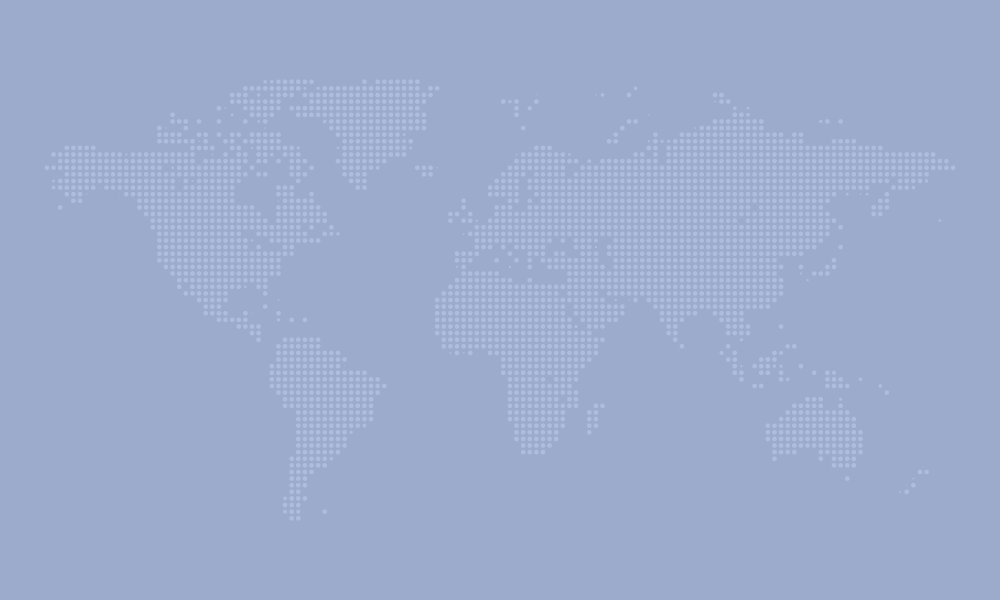
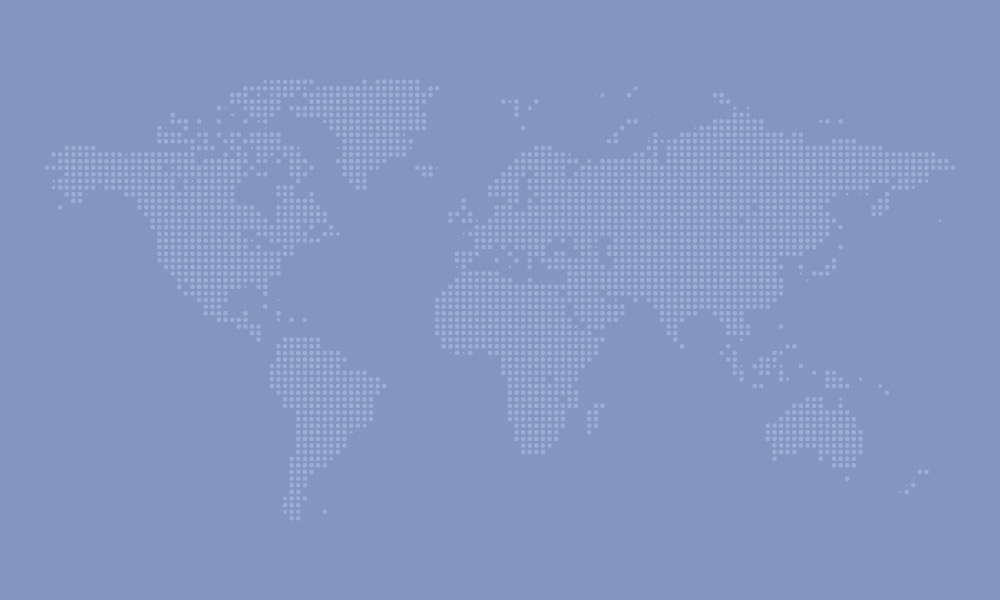
update
Update

diff --git a/css/index.css b/css/index.css
@@ -1,8 +1,2 @@
-.version.index{color:#0000E4;background-color:#0258FA;}#page{z-index:1;width:900px;min-height:499.95000000000005px;background-image:none;border-width:0px;border-color:#000000;background-color:transparent;padding-bottom:0px;margin-left:auto;margin-right:auto;}#page_position_content{padding-bottom:62px;width:0.01px;}#pu1301{z-index:36;width:0.01px;padding-bottom:48px;margin-left:-100px;margin-top:1px;}#u1301{z-index:36;height:48px;box-shadow:4px 4px 5px rgba(0,0,0,0.05);background-color:#A96AC4;position:fixed;top:1px;}#u1301-bw{z-index:36;}#u874{z-index:37;width:252px;border-width:0px;border-color:transparent;background-color:transparent;padding-bottom:32px;position:fixed;top:9px;left:50%;margin-left:-450px;}#u214{z-index:42;vertical-align:top;width:53px;height:32px;position:fixed;top:9px;left:50%;margin-left:-450px;background:url("../images/invisible_48px-u214.png?crc=331156213") no-repeat 0px 0px;}#u184-4{z-index:38;width:193px;min-height:16px;text-shadow:0px 0px 16px rgba(0,0,0,0.05),0px 0px 16px rgba(0,0,0,0.05)/* glow */,
-6px 6px 8px rgba(0,0,0,0)/* drop shadow*/;box-shadow:none;background-color:transparent;line-height:29px;font-size:24px;color:#FFFFFF;font-family:open-sans, sans-serif;font-weight:700;position:fixed;top:9px;left:50%;margin-left:-391px;}#home{left:-100px;top:-49px;margin-bottom:-18px;position:relative;}#u441{z-index:2;min-height:553px;opacity:1;-ms-filter:"progid:DXImageTransform.Microsoft.Alpha(Opacity=100)";filter:alpha(opacity=100);padding-bottom:82px;background:#D8BBE4 url("../images/dotted-world-map-vector-2-u441-fr.png?crc=335031650") no-repeat center center;background-color:rgba(169,106,196,0.45);background-size:cover;}#u441_align_to_page{margin-left:auto;margin-right:auto;position:relative;width:900px;left:-100px;}#project{position:relative;margin-right:-10000px;width:22px;margin-top:535px;left:-1px;}#u1328{z-index:5;width:490px;height:277px;box-shadow:0px 0px 8px rgba(0,0,0,0.2),0px 0px 8px rgba(0,0,0,0.2);opacity:1;-ms-filter:"progid:DXImageTransform.Microsoft.Alpha(Opacity=100)";filter:alpha(opacity=100);position:relative;margin-right:-10000px;margin-top:79px;left:100px;background:transparent url("../images/screenshot_2.jpg?crc=3911182985") no-repeat center center;}#pu1523{z-index:6;width:0.01px;padding-bottom:0px;margin-right:-10000px;margin-top:92px;margin-left:626px;}#u1523{z-index:6;width:372px;border-width:0px;border-color:transparent;background-color:transparent;margin-left:2px;position:relative;}#u1347-4{z-index:7;width:372px;min-height:16px;text-shadow:0px 0px 16px rgba(0,0,0,0.05),0px 0px 16px rgba(0,0,0,0.05)/* glow */,
-6px 6px 8px rgba(0,0,0,0)/* drop shadow*/;box-shadow:none;background-color:transparent;line-height:29px;text-align:left;font-size:24px;color:#FFFFFF;font-family:open-sans, sans-serif;font-weight:400;position:relative;}#pu1384{z-index:27;width:0.01px;margin-top:13px;}#u1384{z-index:27;width:20px;height:20px;opacity:1;-ms-filter:"progid:DXImageTransform.Microsoft.Alpha(Opacity=100)";filter:alpha(opacity=100);position:relative;margin-right:-10000px;background:transparent url("../images/security%20checked_32px.png?crc=3961449989") no-repeat center center;background-size:cover;}#u1360-4{z-index:11;width:332px;min-height:16px;text-shadow:0px 0px 16px rgba(0,0,0,0.05),0px 0px 16px rgba(0,0,0,0.05)/* glow */,
-6px 6px 8px rgba(0,0,0,0)/* drop shadow*/;box-shadow:none;background-color:transparent;text-align:left;color:#FFFFFF;font-family:open-sans, sans-serif;font-weight:400;position:relative;margin-right:-10000px;margin-top:1px;left:30px;}#pu1419{z-index:28;width:0.01px;margin-top:13px;}#u1419{z-index:28;width:20px;height:20px;opacity:1;-ms-filter:"progid:DXImageTransform.Microsoft.Alpha(Opacity=100)";filter:alpha(opacity=100);position:relative;margin-right:-10000px;background:transparent url("../images/fraud_32px.png?crc=88948563") no-repeat center center;background-size:cover;}#u1363-4{z-index:15;width:328px;min-height:16px;text-shadow:0px 0px 16px rgba(0,0,0,0.05),0px 0px 16px rgba(0,0,0,0.05)/* glow */,
-6px 6px 8px rgba(0,0,0,0)/* drop shadow*/;box-shadow:none;background-color:transparent;text-align:left;color:#FFFFFF;font-family:open-sans, sans-serif;font-weight:400;position:relative;margin-right:-10000px;margin-top:2px;left:30px;}#pu1430{z-index:29;width:0.01px;margin-top:13px;}#u1430{z-index:29;width:20px;height:20px;opacity:1;-ms-filter:"progid:DXImageTransform.Microsoft.Alpha(Opacity=100)";filter:alpha(opacity=100);position:relative;margin-right:-10000px;background:transparent url("../images/unlock_32px_2.png?crc=4148661328") no-repeat center center;background-size:cover;}#u1366-4{z-index:19;width:328px;min-height:16px;text-shadow:0px 0px 16px rgba(0,0,0,0.05),0px 0px 16px rgba(0,0,0,0.05)/* glow */,
-6px 6px 8px rgba(0,0,0,0)/* drop shadow*/;box-shadow:none;background-color:transparent;text-align:left;color:#FFFFFF;font-family:open-sans, sans-serif;font-weight:400;position:relative;margin-right:-10000px;margin-top:2px;left:30px;}#pu1433{z-index:30;width:0.01px;margin-top:13px;}#u1433{z-index:30;width:20px;height:20px;opacity:1;-ms-filter:"progid:DXImageTransform.Microsoft.Alpha(Opacity=100)";filter:alpha(opacity=100);position:relative;margin-right:-10000px;background:transparent url("../images/speed_32px.png?crc=478082872") no-repeat center center;background-size:cover;}#u1369-4{z-index:23;width:328px;min-height:16px;text-shadow:0px 0px 16px rgba(0,0,0,0.05),0px 0px 16px rgba(0,0,0,0.05)/* glow */,
-6px 6px 8px rgba(0,0,0,0)/* drop shadow*/;box-shadow:none;background-color:transparent;text-align:left;color:#FFFFFF;font-family:open-sans, sans-serif;font-weight:400;position:relative;margin-right:-10000px;margin-top:3px;left:30px;}#pu1456{z-index:31;width:0.01px;margin-top:13px;}#u1456{z-index:31;width:20px;height:20px;opacity:1;-ms-filter:"progid:DXImageTransform.Microsoft.Alpha(Opacity=100)";filter:alpha(opacity=100);position:relative;margin-right:-10000px;background:transparent url("../images/banknotes_32px.png?crc=482363699") no-repeat center center;background-size:cover;}#u1467-4{z-index:32;width:328px;min-height:16px;text-shadow:0px 0px 16px rgba(0,0,0,0.05),0px 0px 16px rgba(0,0,0,0.05)/* glow */,
-6px 6px 8px rgba(0,0,0,0)/* drop shadow*/;box-shadow:none;background-color:transparent;text-align:left;color:#FFFFFF;font-family:open-sans, sans-serif;font-weight:400;position:relative;margin-right:-10000px;margin-top:4px;left:30px;}#pbuttonu1481{z-index:43;width:0.01px;margin-top:39px;}#buttonu1481{z-index:43;width:178px;-webkit-transition-duration:0.5s;-webkit-transition-delay:0s;-webkit-transition-timing-function:ease;transition-duration:0.5s;transition-delay:0s;transition-timing-function:ease;box-shadow:0px 0px 8px rgba(0,0,0,0.2),0px 0px 8px rgba(0,0,0,0.2);background-image:url("../images/blank.gif?crc=4208392903");border-color:#787878;background-color:#0048C4;border-radius:5px;position:relative;margin-right:-10000px;}#buttonu1481:hover{background-color:#FFFFFF;width:178px;min-height:0px;margin:0px -10000px 0px 0px;}#buttonu1481.ButtonSelected{background-color:#0048C4;width:178px;min-height:0px;margin:0px -10000px 0px 0px;}#u1483-4{z-index:44;width:178px;min-height:29px;background-color:transparent;line-height:28px;text-align:center;letter-spacing:1px;color:#FFFFFF;font-family:open-sans, sans-serif;font-weight:400;position:relative;margin-right:-10000px;margin-top:2px;}#buttonu1481:hover #u1483-4{padding-top:0px;padding-bottom:0px;min-height:29px;width:178px;margin:2px -10000px 0px 0px;}#buttonu1481:hover #u1483-4 p{color:#006AC4;visibility:inherit;}#buttonu1481.ButtonSelected #u1483-4 p{color:#FFFFFF;visibility:inherit;}#buttonu1532{z-index:48;width:178px;-webkit-transition-duration:0.5s;-webkit-transition-delay:0s;-webkit-transition-timing-function:ease;transition-duration:0.5s;transition-delay:0s;transition-timing-function:ease;box-shadow:0px 0px 8px rgba(0,0,0,0.2),0px 0px 8px rgba(0,0,0,0.2);background-image:url("../images/blank.gif?crc=4208392903");border-color:#787878;background-color:#FFFFFF;border-radius:5px;position:relative;margin-right:-10000px;left:196px;}#buttonu1532:hover{background-color:#00FFFF;width:178px;min-height:0px;margin:0px -10000px 0px 0px;}#buttonu1532.ButtonSelected{background-color:#FFFFFF;width:178px;min-height:0px;margin:0px -10000px 0px 0px;}#u1533-4{z-index:49;width:178px;min-height:29px;background-color:transparent;line-height:28px;text-align:center;letter-spacing:1px;color:#0048C4;font-family:open-sans, sans-serif;font-weight:400;position:relative;margin-right:-10000px;margin-top:2px;}#buttonu1481.ButtonSelected #u1483-4,#buttonu1532:hover #u1533-4{padding-top:0px;padding-bottom:0px;min-height:29px;width:178px;margin:2px -10000px 0px 0px;}#buttonu1532.ButtonSelected #u1533-4{padding-top:0px;padding-bottom:0px;min-height:29px;width:178px;margin:2px -10000px 0px 0px;}.js body{visibility:hidden;}.js body.initialized{visibility:visible;}#u441-bw{z-index:2;min-height:553px;}.css_verticalspacer .verticalspacer{height:calc(100vh - 746px);}#muse_css_mq,.html{background-color:#FFFFFF;}body{position:relative;min-width:900px;}
+.version.index{color:#0000E4;background-color:#B31496;}#page{z-index:1;width:900px;min-height:1999.9500000000003px;background-image:none;border-width:0px;border-color:#000000;background-color:transparent;padding-bottom:0px;margin-left:auto;margin-right:auto;}#page_position_content{padding-bottom:62px;width:0.01px;}#home{left:-100px;position:relative;}#pu1301{z-index:49;width:0.01px;padding-bottom:48px;margin-left:-100px;margin-top:-18px;}#u1301{z-index:49;height:48px;box-shadow:4px 4px 5px rgba(0,0,0,0.05);background-color:#006AC4;position:fixed;top:0px;}#u1301-bw{z-index:49;}#u1639{z-index:50;width:252px;border-width:0px;border-color:transparent;background-color:transparent;padding-bottom:32px;position:fixed;top:9px;left:50%;margin-left:-450px;}#u214{z-index:55;vertical-align:top;width:53px;height:32px;position:fixed;top:9px;left:50%;margin-left:-450px;background:url("../images/invisible_48px-u214.png?crc=331156213") no-repeat 0px 0px;}#u184-4{z-index:51;width:193px;min-height:16px;text-shadow:0px 0px 16px rgba(0,0,0,0.05),0px 0px 16px rgba(0,0,0,0.05)/* glow */,
+6px 6px 8px rgba(0,0,0,0)/* drop shadow*/;box-shadow:none;background-color:transparent;color:#FFFFFF;font-size:24px;line-height:29px;font-family:open-sans, sans-serif;font-weight:700;position:fixed;top:9px;left:50%;margin-left:-391px;}#u441{z-index:3;min-height:601px;opacity:1;-ms-filter:"progid:DXImageTransform.Microsoft.Alpha(Opacity=100)";filter:alpha(opacity=100);padding-bottom:28px;background:#CEABDD url("../images/dotted-world-map-vector-2-u441-fr.png?crc=5561681") no-repeat center center;background-color:rgba(169,106,196,0.56);background-size:cover;}#u441_align_to_page{margin-left:auto;margin-right:auto;position:relative;width:900px;left:-100px;}#hotspotprivate_info{position:relative;margin-right:-10000px;width:22px;margin-top:583px;}#u1328{z-index:6;width:490px;height:277px;box-shadow:0px 0px 8px rgba(0,0,0,0.2),0px 0px 8px rgba(0,0,0,0.2);opacity:1;-ms-filter:"progid:DXImageTransform.Microsoft.Alpha(Opacity=100)";filter:alpha(opacity=100);position:relative;margin-right:-10000px;margin-top:146px;left:100px;background:transparent url("../images/screenshot_2.jpg?crc=3911182985") no-repeat center center;}#pu1523{z-index:7;width:0.01px;padding-bottom:0px;margin-right:-10000px;margin-top:159px;margin-left:626px;}#u1523{z-index:7;width:372px;border-width:0px;border-color:transparent;background-color:transparent;margin-left:2px;position:relative;}#u1347-4{z-index:8;width:372px;min-height:16px;text-shadow:0px 0px 5px rgba(0,0,0,0.05),0px 0px 5px rgba(0,0,0,0.05);box-shadow:none;background-color:transparent;color:#FFFFFF;text-align:left;font-size:24px;line-height:29px;font-family:open-sans, sans-serif;font-weight:400;position:relative;}#pu1384{z-index:28;width:0.01px;margin-top:13px;}#u1384{z-index:28;vertical-align:top;width:21px;height:21px;margin-bottom:-1px;position:relative;margin-right:-10000px;background:url("../images/security%20checked_32px-u1384.png?crc=4072919205") no-repeat 0px 0px;}#u1360-4{z-index:12;width:332px;min-height:16px;text-shadow:0px 0px 5px rgba(0,0,0,0.05),0px 0px 5px rgba(0,0,0,0.05);box-shadow:none;background-color:transparent;text-align:left;color:#FFFFFF;font-family:open-sans, sans-serif;font-weight:400;position:relative;margin-right:-10000px;margin-top:1px;left:30px;}#pu1419{z-index:29;width:0.01px;margin-top:13px;}#u1419{z-index:29;vertical-align:top;width:21px;height:21px;margin-bottom:-1px;position:relative;margin-right:-10000px;background:url("../images/fraud_32px-u1419.png?crc=418600093") no-repeat 0px 0px;}#u1363-4{z-index:16;width:328px;min-height:16px;text-shadow:0px 0px 5px rgba(0,0,0,0.05),0px 0px 5px rgba(0,0,0,0.05);box-shadow:none;background-color:transparent;text-align:left;color:#FFFFFF;font-family:open-sans, sans-serif;font-weight:400;position:relative;margin-right:-10000px;margin-top:2px;left:30px;}#pu1430{z-index:30;width:0.01px;margin-top:13px;}#u1430{z-index:30;vertical-align:top;width:21px;height:21px;margin-bottom:-1px;position:relative;margin-right:-10000px;background:url("../images/unlock_32px_2-u1430.png?crc=3853264095") no-repeat 0px 0px;}#u1366-4{z-index:20;width:328px;min-height:16px;text-shadow:0px 0px 5px rgba(0,0,0,0.05),0px 0px 5px rgba(0,0,0,0.05);box-shadow:none;background-color:transparent;text-align:left;color:#FFFFFF;font-family:open-sans, sans-serif;font-weight:400;position:relative;margin-right:-10000px;margin-top:2px;left:30px;}#pu1433{z-index:31;width:0.01px;margin-top:13px;}#u1433{z-index:31;vertical-align:top;width:21px;height:21px;margin-bottom:-1px;position:relative;margin-right:-10000px;background:url("../images/speed_32px-u1433.png?crc=4169968912") no-repeat 0px 0px;}#u1369-4{z-index:24;width:328px;min-height:16px;text-shadow:0px 0px 5px rgba(0,0,0,0.05),0px 0px 5px rgba(0,0,0,0.05);box-shadow:none;background-color:transparent;text-align:left;color:#FFFFFF;font-family:open-sans, sans-serif;font-weight:400;position:relative;margin-right:-10000px;margin-top:3px;left:30px;}#pu1456{z-index:32;width:0.01px;margin-top:13px;}#u1456{z-index:32;vertical-align:top;width:21px;height:21px;margin-bottom:-1px;position:relative;margin-right:-10000px;background:url("../images/banknotes_32px-u1456.png?crc=191486563") no-repeat 0px 0px;}#u1467-4{z-index:33;width:328px;min-height:16px;text-shadow:0px 0px 5px rgba(0,0,0,0.05),0px 0px 5px rgba(0,0,0,0.05);box-shadow:none;background-color:transparent;text-align:left;color:#FFFFFF;font-family:open-sans, sans-serif;font-weight:400;position:relative;margin-right:-10000px;margin-top:4px;left:30px;}#u1613{z-index:37;width:374px;border-width:0px;border-color:transparent;background-color:transparent;margin-top:39px;position:relative;}#buttonu1481{z-index:38;width:178px;-webkit-transition-duration:0.7s;-webkit-transition-delay:0s;-webkit-transition-timing-function:ease;transition-duration:0.7s;transition-delay:0s;transition-timing-function:ease;box-shadow:0px 0px 8px rgba(0,0,0,0.2),0px 0px 8px rgba(0,0,0,0.2);background-image:url("../images/blank.gif?crc=4208392903");border-color:#787878;background-color:#006AC4;border-radius:5px;position:relative;margin-right:-10000px;}#buttonu1481:hover{background-color:#FFFFFF;width:178px;min-height:0px;margin:0px -10000px 0px 0px;}#buttonu1481.ButtonSelected{background-color:#006AC4;width:178px;min-height:0px;margin:0px -10000px 0px 0px;}#u1483-4{z-index:39;width:178px;min-height:29px;background-color:transparent;color:#FFFFFF;text-align:center;letter-spacing:1px;line-height:28px;font-family:open-sans, sans-serif;font-weight:400;position:relative;margin-right:-10000px;margin-top:2px;}#buttonu1481:hover #u1483-4{padding-top:0px;padding-bottom:0px;min-height:29px;width:178px;margin:2px -10000px 0px 0px;}#buttonu1481:hover #u1483-4 p{color:#006AC4;visibility:inherit;}#buttonu1532{z-index:43;width:178px;-webkit-transition-duration:0.7s;-webkit-transition-delay:0s;-webkit-transition-timing-function:ease;transition-duration:0.7s;transition-delay:0s;transition-timing-function:ease;box-shadow:0px 0px 8px rgba(0,0,0,0.2),0px 0px 8px rgba(0,0,0,0.2);background-image:url("../images/blank.gif?crc=4208392903");border-color:#787878;background-color:#FFFFFF;border-radius:5px;position:relative;margin-right:-10000px;left:196px;}#buttonu1532:hover{background-color:#40413F;width:178px;min-height:0px;margin:0px -10000px 0px 0px;}#buttonu1532.ButtonSelected{background-color:#FFFFFF;width:178px;min-height:0px;margin:0px -10000px 0px 0px;}#u1533-4{z-index:44;width:178px;min-height:29px;background-color:transparent;color:#006AC4;text-align:center;letter-spacing:1px;line-height:28px;font-family:open-sans, sans-serif;font-weight:400;position:relative;margin-right:-10000px;margin-top:2px;}#buttonu1481.ButtonSelected #u1483-4,#buttonu1532:hover #u1533-4{padding-top:0px;padding-bottom:0px;min-height:29px;width:178px;margin:2px -10000px 0px 0px;}#buttonu1532.ButtonSelected #u1533-4{padding-top:0px;padding-bottom:0px;min-height:29px;width:178px;margin:2px -10000px 0px 0px;}#buttonu1481.ButtonSelected #u1483-4 p,#buttonu1532:hover #u1533-4 p{color:#FFFFFF;visibility:inherit;}#buttonu1532.ButtonSelected #u1533-4 p{color:#006AC4;visibility:inherit;}.js body{visibility:hidden;}.js body.initialized{visibility:visible;}#u441-bw{z-index:3;min-height:601px;}#u1677{z-index:2;min-height:653.8000000000002px;opacity:1;-ms-filter:"progid:DXImageTransform.Microsoft.Alpha(Opacity=100)";filter:alpha(opacity=100);padding-bottom:0px;background:transparent url("../images/dotted-world-map-vector-2-u1677-fr.png?crc=47277328") no-repeat center center;background-size:cover;}#u1677_align_to_page{margin-left:auto;margin-right:auto;position:relative;width:900px;left:-100px;padding-top:24px;padding-bottom:29px;}#u1646-7{z-index:56;width:860px;min-height:16px;background-color:transparent;color:#006AC4;text-align:center;font-size:30px;line-height:36px;font-family:open-sans, sans-serif;font-weight:400;left:120px;position:relative;}#u1646-3{font-family:open-sans, sans-serif;font-weight:700;}#pu1755-5{z-index:68;width:0.01px;left:100px;margin-top:137px;position:relative;}#u1755-5{z-index:68;width:284px;min-height:50px;background-color:transparent;text-align:center;color:#006AC4;font-family:open-sans, sans-serif;font-weight:400;position:relative;margin-right:-10000px;}#u1758-5{z-index:73;width:244px;min-height:50px;background-color:transparent;text-align:center;color:#006AC4;font-family:open-sans, sans-serif;font-weight:400;position:relative;margin-right:-10000px;left:328px;}#u1768-5{z-index:78;width:284px;min-height:50px;background-color:transparent;text-align:center;color:#006AC4;font-family:open-sans, sans-serif;font-weight:400;position:relative;margin-right:-10000px;left:616px;}#pu1771-5{z-index:83;width:0.01px;left:100px;margin-top:110px;position:relative;}#u1771-5{z-index:83;width:284px;min-height:50px;background-color:transparent;text-align:center;color:#006AC4;font-family:open-sans, sans-serif;font-weight:400;position:relative;margin-right:-10000px;}#u1774-7{z-index:88;width:244px;min-height:50px;background-color:transparent;text-align:center;color:#006AC4;font-family:open-sans, sans-serif;font-weight:400;position:relative;margin-right:-10000px;left:328px;}#u1777-7{z-index:95;width:284px;min-height:50px;background-color:transparent;text-align:center;color:#006AC4;font-family:open-sans, sans-serif;font-weight:400;position:relative;margin-right:-10000px;left:616px;}#u1807-6{z-index:102;width:900px;min-height:16px;-webkit-transition-duration:0s;-webkit-transition-delay:0s;transition-duration:0s;transition-delay:0s;background-image:url("../images/blank.gif?crc=4208392903");background-color:transparent;color:#006AC4;text-align:center;font-size:24px;line-height:29px;font-family:open-sans, sans-serif;font-weight:400;left:100px;margin-top:38px;position:relative;}#u1807-6:hover{-webkit-transition-duration:0.8s;-webkit-transition-delay:0s;-webkit-transition-timing-function:ease;transition-duration:0.8s;transition-delay:0s;transition-timing-function:ease;border-color:#FFFFFF;background-color:#006AC4;border-radius:5px;padding-top:0px;padding-bottom:0px;min-height:16px;width:900px;margin:38px 0px 0px;}#u1807-6:hover p,#u1807-6:hover span{color:#FFFFFF;visibility:inherit;}#u1777-2,#u1807-3{font-weight:700;}#hotspotprivate_clientreport{top:-2px;margin-bottom:-2px;position:relative;}#u1677-bw{z-index:2;min-height:653.8000000000002px;}#u1829{z-index:109;min-height:612px;opacity:1;-ms-filter:"progid:DXImageTransform.Microsoft.Alpha(Opacity=100)";filter:alpha(opacity=100);background:#B2B2FF url("../images/dotted-world-map-vector-2-u1829-fr.png?crc=220163068") no-repeat center center;background-color:rgba(0,0,255,0.3);background-size:cover;}#u1829_align_to_page{margin-left:auto;margin-right:auto;position:relative;width:900px;left:-100px;padding-top:31px;padding-bottom:51px;}#u1832-4{z-index:110;width:860px;min-height:16px;background-color:transparent;color:#FFFFFF;text-align:center;font-size:30px;line-height:36px;font-family:open-sans, sans-serif;font-weight:400;left:120px;position:relative;}#pu1860{z-index:114;width:0.01px;left:188px;margin-top:60px;position:relative;}#u1860{z-index:114;width:285px;border-width:0px;border-color:transparent;background-color:transparent;position:relative;margin-right:-10000px;}#u1839{z-index:115;width:100px;height:100px;opacity:1;-ms-filter:"progid:DXImageTransform.Microsoft.Alpha(Opacity=100)";filter:alpha(opacity=100);border-radius:100px;margin-left:92px;position:relative;background:transparent url("../images/znakcom-714210-501x427.jpg?crc=306344711") no-repeat center center;background-size:cover;}#u1854-5{z-index:116;width:244px;min-height:16px;background-color:transparent;color:#FFFFFF;text-align:center;font-size:16px;line-height:19px;font-family:open-sans, sans-serif;font-weight:700;margin-left:20px;margin-top:6px;position:relative;}#u1857-4{z-index:121;width:285px;min-height:97px;background-color:transparent;text-align:center;font-size:15px;line-height:18px;letter-spacing:0px;color:#00FFFF;font-family:open-sans, sans-serif;font-weight:400;margin-top:7px;position:relative;}#u1863{z-index:125;width:285px;border-width:0px;border-color:transparent;background-color:transparent;position:relative;margin-right:-10000px;left:440px;}#u1864{z-index:126;width:100px;height:100px;opacity:1;-ms-filter:"progid:DXImageTransform.Microsoft.Alpha(Opacity=100)";filter:alpha(opacity=100);border-radius:100px;margin-left:93px;position:relative;background:transparent url("../images/%d0%bf%d0%be%d1%80%d1%82%d1%80%d0%b5%d1%82_1_display.jpg?crc=4274116757") no-repeat center top;background-size:cover;}#u1866-5{z-index:127;width:244px;min-height:16px;background-color:transparent;color:#FFFFFF;text-align:center;font-size:16px;line-height:19px;font-family:open-sans, sans-serif;font-weight:700;margin-left:21px;margin-top:6px;position:relative;}#u1865-4{z-index:132;width:285px;min-height:97px;background-color:transparent;text-align:center;font-size:15px;line-height:18px;letter-spacing:0px;color:#00FFFF;font-family:open-sans, sans-serif;font-weight:400;margin-top:7px;position:relative;}#u1883{z-index:136;width:285px;border-width:0px;border-color:transparent;background-color:transparent;position:relative;margin-right:-10000px;margin-top:205px;left:220px;}#u1886{z-index:137;width:100px;height:100px;opacity:1;-ms-filter:"progid:DXImageTransform.Microsoft.Alpha(Opacity=100)";filter:alpha(opacity=100);border-radius:100px;margin-left:93px;position:relative;background:transparent url("../images/1_eb1f1e.jpg?crc=379823166") no-repeat center top;background-size:cover;}#u1885-5{z-index:138;width:244px;min-height:16px;background-color:transparent;color:#FFFFFF;text-align:center;font-size:16px;line-height:19px;font-family:open-sans, sans-serif;font-weight:700;margin-left:21px;margin-top:6px;position:relative;}#u1854,#u1866,#u1885{font-weight:400;}#u1884-4{z-index:143;width:285px;min-height:97px;background-color:transparent;text-align:center;font-size:15px;line-height:18px;letter-spacing:0px;color:#00FFFF;font-family:open-sans, sans-serif;font-weight:400;margin-top:7px;position:relative;}#u1829-bw{z-index:109;min-height:612px;}.css_verticalspacer .verticalspacer{height:calc(100vh - 2005px);}#pu1579{z-index:48;width:0.01px;margin-left:108px;margin-top:-1107px;}#u1579{z-index:48;width:72px;height:72px;opacity:1;-ms-filter:"progid:DXImageTransform.Microsoft.Alpha(Opacity=100)";filter:alpha(opacity=100);position:relative;margin-right:-10000px;background:transparent url("../images/security%20checked_100px.png?crc=528585562") no-repeat center center;background-size:cover;}#u1692{z-index:63;width:72px;height:72px;opacity:1;-ms-filter:"progid:DXImageTransform.Microsoft.Alpha(Opacity=100)";filter:alpha(opacity=100);position:relative;margin-right:-10000px;left:306px;background:transparent url("../images/fraud_100px.png?crc=4039262067") no-repeat center center;background-size:cover;}#u1703{z-index:64;width:72px;height:72px;opacity:1;-ms-filter:"progid:DXImageTransform.Microsoft.Alpha(Opacity=100)";filter:alpha(opacity=100);position:relative;margin-right:-10000px;left:612px;background:transparent url("../images/speed_100px.png?crc=3927709488") no-repeat center center;background-size:cover;}#pu1714{z-index:65;width:0.01px;margin-left:108px;margin-top:-912px;}#u1714{z-index:65;width:72px;height:72px;opacity:1;-ms-filter:"progid:DXImageTransform.Microsoft.Alpha(Opacity=100)";filter:alpha(opacity=100);position:relative;margin-right:-10000px;background:transparent url("../images/unlock_100px.png?crc=4252972562") no-repeat center center;background-size:cover;}#u1725{z-index:66;width:72px;height:72px;opacity:1;-ms-filter:"progid:DXImageTransform.Microsoft.Alpha(Opacity=100)";filter:alpha(opacity=100);position:relative;margin-right:-10000px;left:306px;background:transparent url("../images/cancel%202_104px.png?crc=506222733") no-repeat center center;background-size:cover;}#u1740{z-index:67;width:72px;height:72px;opacity:1;-ms-filter:"progid:DXImageTransform.Microsoft.Alpha(Opacity=100)";filter:alpha(opacity=100);position:relative;margin-right:-10000px;left:612px;background:transparent url("../images/banknotes_100px.png?crc=4123370259") no-repeat center center;background-size:cover;}#muse_css_mq,.html{background-color:#FFFFFF;}body{position:relative;min-width:900px;}

diff --git a/css/iefonts_index.css b/css/iefonts_index.css
@@ -1,1 +1,1 @@
-#u184-4{font-family:open-sans-n7, sans-serif;}#u1347-4,#u1360-4,#u1363-4,#u1366-4,#u1369-4,#u1467-4,#u1483-4{font-family:open-sans-n4, sans-serif;}#u1533-4{font-family:open-sans-n4, sans-serif;}
+#u1347-4,#u1360-4,#u1363-4,#u1366-4,#u1369-4,#u1467-4,#u1483-4{font-family:open-sans-n4, sans-serif;}#u1533-4{font-family:open-sans-n4, sans-serif;}#u184-4,#u1646-3{font-family:open-sans-n7, sans-serif;}#u1646-7,#u1755-5,#u1758-5,#u1768-5,#u1771-5,#u1774-7,#u1777-7,#u1807-6{font-family:open-sans-n4, sans-serif;}#u1832-4,#u1854-5,#u1857-4,#u1866-5,#u1865-4,#u1885-5,#u1884-4{font-family:open-sans-n4, sans-serif;}
